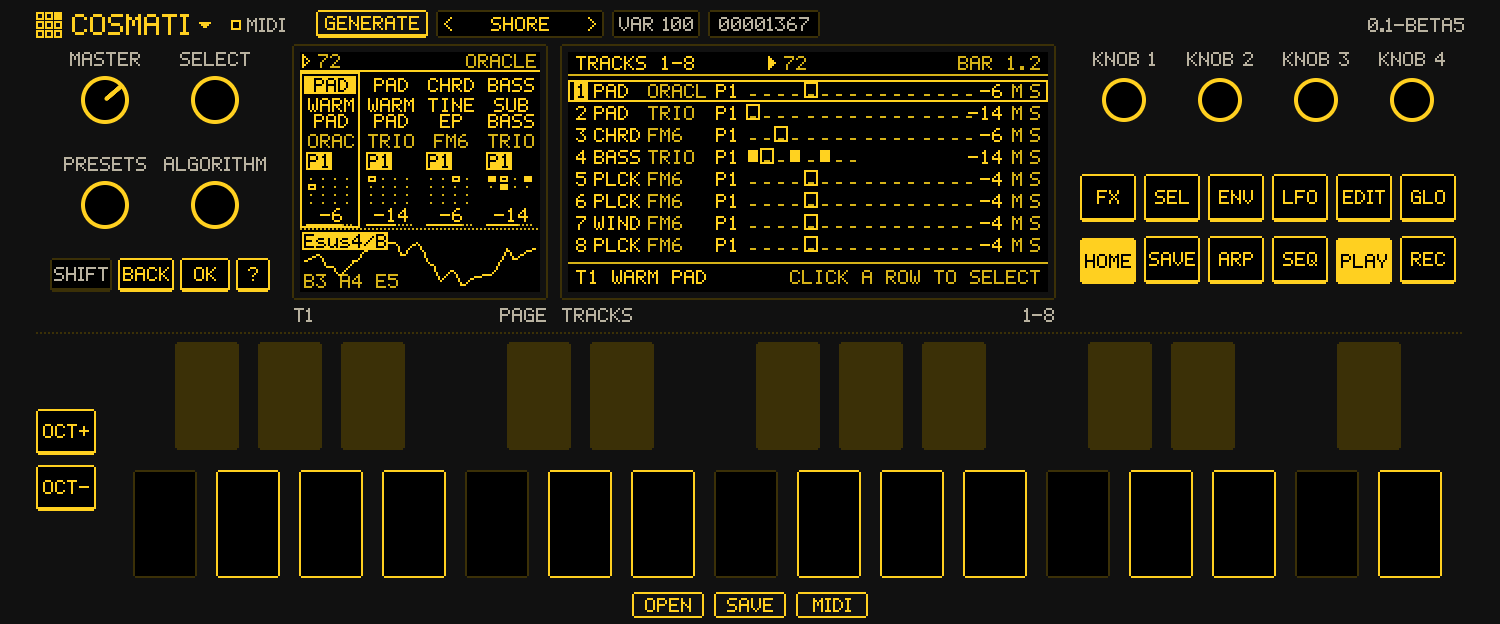
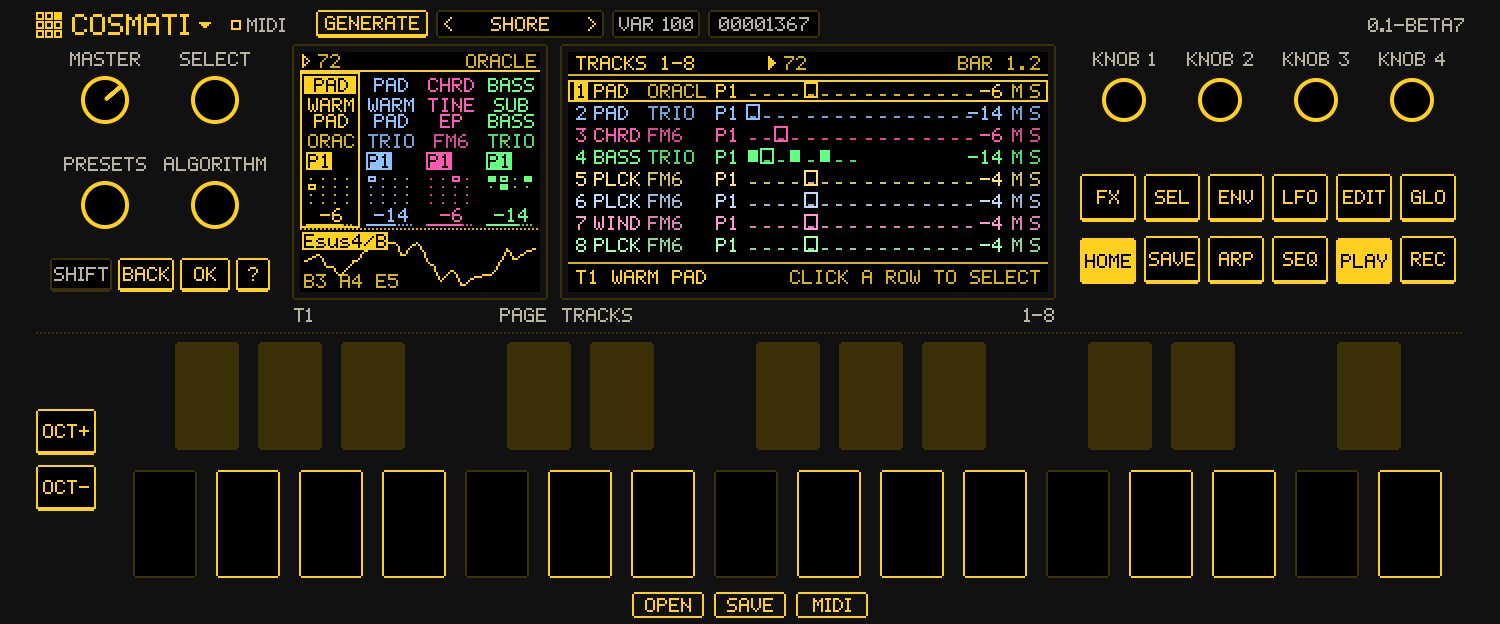
site: the plugin page on plugin-v0.1-beta7 (its downloads, its PLUGIN.md, its picture)

diff --git a/docs/plugin/index.html b/docs/plugin/index.html
@@ -156,10 +156,10 @@ in a DAW.</p>
 <p>Until beta 4 the plugin was called Tessera, like the firmware; Audio Damage makes a plugin called Tessera, so the plugin
 has a name of its own. Songs saved with the old name open in Cosmati (delete the old Tessera.clap, .vst3, .component and
 app when you install it, so your DAW doesn't list it twice).</p>
-<p><a href="../media/plugin/plugin-expanded.png?v=0.1-beta5"><img src="../media/plugin/plugin-expanded.png?v=0.1-beta5" alt="Cosmati in EXPANDED: the FM-1's screen with TRACKS beside it, all eight tracks playing STILL TIDE" /></a></p>
+<p><a href="../media/plugin/plugin-expanded.png?v=0.1-beta7"><img src="../media/plugin/plugin-expanded.png?v=0.1-beta7" alt="Cosmati in EXPANDED: the FM-1's screen with TRACKS beside it, all eight tracks playing STILL TIDE" /></a></p>
 <p><em>EXPANDED: the FM-1's screen and, beside it, TRACKS with all eight tracks (the latest beta, playing STILL TIDE).</em></p>
 <h2 id="download">Download</h2>
-<div class="downloads"><ul><li><b>Windows</b><span>CLAP, VST3 and the standalone app</span><a class="get" href="https://github.com/Rastapopolix/tessera/releases/download/plugin-v0.1-beta5/Cosmati-0.1-beta5-windows.zip" download>DOWNLOAD</a></li><li><b>macOS</b><span>CLAP, VST3, Audio Unit and the standalone app</span><a class="get" href="https://github.com/Rastapopolix/tessera/releases/download/plugin-v0.1-beta5/Cosmati-0.1-beta5-macos.zip" download>DOWNLOAD</a></li><li><b>Linux</b><span>CLAP and VST3</span><a class="get" href="https://github.com/Rastapopolix/tessera/releases/download/plugin-v0.1-beta5/Cosmati-0.1-beta5-linux.tar.gz" download>DOWNLOAD</a></li></ul><p><b>0.1-beta5, public beta:</b> it still has some rough edges, so please <a href="https://github.com/Rastapopolix/tessera/issues">report what you find</a>. Its notes and every version are under the <a href="https://github.com/Rastapopolix/tessera/releases">releases</a> (marked <i>Pre-release</i>). Free and open source, GPL-3.0. How to install: see <a href="#install">Install</a>.</p></div>
+<div class="downloads"><ul><li><b>Windows</b><span>CLAP, VST3 and the standalone app</span><a class="get" href="https://github.com/Rastapopolix/tessera/releases/download/plugin-v0.1-beta7/Cosmati-0.1-beta7-windows.zip" download>DOWNLOAD</a></li><li><b>macOS</b><span>CLAP, VST3, Audio Unit and the standalone app</span><a class="get" href="https://github.com/Rastapopolix/tessera/releases/download/plugin-v0.1-beta7/Cosmati-0.1-beta7-macos.zip" download>DOWNLOAD</a></li><li><b>Linux</b><span>CLAP and VST3</span><a class="get" href="https://github.com/Rastapopolix/tessera/releases/download/plugin-v0.1-beta7/Cosmati-0.1-beta7-linux.tar.gz" download>DOWNLOAD</a></li></ul><p><b>0.1-beta7, public beta:</b> it still has some rough edges, so please <a href="https://github.com/Rastapopolix/tessera/issues">report what you find</a>. Its notes and every version are under the <a href="https://github.com/Rastapopolix/tessera/releases">releases</a> (marked <i>Pre-release</i>). Free and open source, GPL-3.0. How to install: see <a href="#install">Install</a>.</p></div>
 <ul>
 <li><a href="#install">Install</a></li>
 <li><a href="#first-sound">First sound</a></li>
@@ -235,9 +235,8 @@ ROUT starts at SEL in the plugin). To play each track from its own DAW track ins
 the FM-1 (the <a href="../manual/">manual</a> shows how).</p>
 <p><strong>To hear what it can do,</strong> load a demo: all eight demos are in the DAW's list of Cosmati's presets (the preset
 browser for the CLAP plugin, as in Bitwig; the programs or factory presets menu for the VST3 and the Audio Unit, as in
-Reaper, Cubase or Logic); <strong>STILL TIDE</strong> also waits in slot A and <strong>KOTO GARDEN</strong> in slot B (SAVE &gt; PROJECT, then
-LOAD); and every demo is a <code>.tsp</code> file in the <a href="https://github.com/Rastapopolix/tessera/blob/HEAD/demos/">demos folder</a> for <strong>OPEN</strong>. The <strong>standalone app</strong> has no DAW
-to send it notes, so it opens with STILL TIDE loaded and plays it at once.</p>
+Reaper, Cubase or Logic); and every demo is a <code>.tsp</code> file in the <a href="https://github.com/Rastapopolix/tessera/blob/HEAD/demos/">demos folder</a> for <strong>OPEN</strong>, which is how
+the <strong>standalone app</strong> loads one. The project slots (SAVE &gt; PROJECT) start empty, for your own songs.</p>
 <h2 id="the-window">The window</h2>
 <p>The window shows the FM-1's panel, 1:1, in Tessera's own look or one of the FM-1's colours (see <strong>Shells</strong> below).
 Click the buttons and keys (drag across the keys to glide). Drag a knob up and down or left and right, or turn the
@@ -256,26 +255,35 @@ the slot's sheet.</li>
 <li><strong>PATTERNS:</strong> click a cell to queue that pattern on its track; click a track's number to select it. In Copy to,
 click where the copy goes.</li>
 <li><strong>SONG:</strong> click a section's letter to pick it; click a block to pick its section and its track.</li>
-<li><strong>MIXER:</strong> drag or turn the wheel on a strip's level or pan (double-click: its default, centre); click the left
-half of its MUTE / SOLO box to mute, the right half to solo.</li>
+<li><strong>MIXER:</strong> drag or turn the wheel on a strip's level or pan (double-click: its default, centre); click the word
+under a strip to mute it, double-click it to solo.</li>
+<li><strong>The tempo</strong> in a screen's header (HOME, MIXER, the lists): drag it or turn the wheel over it, a BPM a step;
+double-click for 120. While a DAW plays Cosmati, the DAW sets the tempo.</li>
+<li><strong>The footer's page tabs and its arrows:</strong> click a tab for that page, an arrow for the page just past it.</li>
 <li><strong>ABOUT and a HELP card longer than the card:</strong> the wheel scrolls the text (drag it as you would push a page).</li>
 <li><strong>OK, BACK, YES and NO</strong> on the screen: click them.</li>
 <li><strong>The sound browser and SCALES:</strong> the wheel over the left side turns KNOB 1 (the list, the scale family), over the
 right side KNOB 2 (the sound, the scale).</li>
 <li><strong>HOME:</strong> click a track's column to select it.</li>
+<li><strong>TRACKS</strong> (EXPANDED): click a row to select that track; double-click it to open its EDIT page.</li>
 </ul>
+<p><strong>Click away to close:</strong> with a list, a sheet or a help card open over the page, click anywhere with nothing to
+use (the panel's body, the screen beside it) to close it, as BACK would. A YES / NO question waits for its answer.</p>
 <p>The panel's own knobs and buttons still do everything they did. The mouse on the screen only turns those knobs and
 presses those keys for you, so a page behaves the same either way.</p>
 <p><strong>The computer keyboard</strong> plays it too, as in the web simulator (click the window first):</p>
 <ul>
 <li><strong>Z</strong> to <strong>'</strong> and <strong>Q</strong> to <strong>O</strong>: the keys.</li>
 <li><strong>1</strong> to <strong>=</strong>: the twelve buttons, in the panel's order.</li>
-<li><strong>[</strong> and <strong>]</strong>: the FM-1's OCT- and OCT+ (in Tessera's look, BACK and OK).</li>
+<li><strong>[</strong> and <strong>]</strong>, or <strong>Esc</strong> and <strong>Enter</strong>: the FM-1's OCT- and OCT+ (in Tessera's look, BACK and OK).</li>
+<li><strong>Space</strong> (the standalone app): PLAY / STOP. <strong>Ctrl+O</strong> and <strong>Ctrl+S</strong> (<strong>Cmd</strong> on a Mac): OPEN and SAVE. In a
+DAW these stay the DAW's.</li>
 <li><strong>Shift</strong> (Tessera's look): SHIFT, held while you hold the key (a click on SHIFT latches it instead).</li>
 <li><strong>Page Up / Page Down</strong> (Tessera's look): OCT+ and OCT-.</li>
 <li><strong>F1</strong> (Tessera's look): <strong>?</strong>, the help card of the knob or row under the cursor.</li>
 <li><strong>Up / Down</strong>: turn SELECT. <strong>Left / Right</strong>: turn ALGORITHM.</li>
 </ul>
+<p>Hover over a button for the key that does the same.</p>
 <p><strong>Key labels:</strong> where a page gives the keys a job of their own, each key shows it in a tiny label just over it, and
 hovering over the key says it in full: MIXER, PERF, LANDSCAPE and GLO held (M1..M4 mute on the black keys, S1..S4 solo
 while held on the white, then ALL, HOLD, FILL, TAP), SEL held (the key sets the ROOT), SEQ held (PATTERN 1..8), the
@@ -297,7 +305,8 @@ as held, while you click the second one, so GLO + a button or SEL + a key work w
 click it, or press <strong>Esc</strong> to let go.</p>
 <p><strong>Shells:</strong> the window opens in Tessera's own look. Click the Tessera mark at the top left for its menu:</p>
 <ul>
-<li><strong>SHELL:</strong> Tessera's look, or one of the eight FM-1 colours. Each shell sets its own screen ink.</li>
+<li><strong>SHELL:</strong> Tessera's look, or one of the eight FM-1 colours. Each shell sets its own screen ink: Tessera's look
+starts in MOSAIC, a colour for each track (track 1 yellow, 2 blue, 3 pink, 4 green; 5-8 lighter).</li>
 <li><strong>INK:</strong> the screen's ink, the same 13 choices as MENU &gt; COLOR (nine inks, then MOSAIC, SUNSET, OCEAN and NEON,
 which colour each track). Hover over a swatch to see its name.</li>
 <li><strong>MODE:</strong> FM-1 (the FM-1's panel) or EXPANDED (a wider window with every track on screen at once: see

diff --git a/PLUGIN.md b/PLUGIN.md
@@ -84,9 +84,8 @@ the FM-1 (the [manual](MANUAL.md) shows how).
 
 **To hear what it can do,** load a demo: all eight demos are in the DAW's list of Cosmati's presets (the preset
 browser for the CLAP plugin, as in Bitwig; the programs or factory presets menu for the VST3 and the Audio Unit, as in
-Reaper, Cubase or Logic); **STILL TIDE** also waits in slot A and **KOTO GARDEN** in slot B (SAVE > PROJECT, then
-LOAD); and every demo is a `.tsp` file in the [demos folder](demos/) for **OPEN**. The **standalone app** has no DAW
-to send it notes, so it opens with STILL TIDE loaded and plays it at once.
+Reaper, Cubase or Logic); and every demo is a `.tsp` file in the [demos folder](demos/) for **OPEN**, which is how
+the **standalone app** loads one. The project slots (SAVE > PROJECT) start empty, for your own songs.
 
 ## The window
 
@@ -108,13 +107,20 @@ and value shown large in a box under the screen:
 - **PATTERNS:** click a cell to queue that pattern on its track; click a track's number to select it. In Copy to,
   click where the copy goes.
 - **SONG:** click a section's letter to pick it; click a block to pick its section and its track.
-- **MIXER:** drag or turn the wheel on a strip's level or pan (double-click: its default, centre); click the left
-  half of its MUTE / SOLO box to mute, the right half to solo.
+- **MIXER:** drag or turn the wheel on a strip's level or pan (double-click: its default, centre); click the word
+  under a strip to mute it, double-click it to solo.
+- **The tempo** in a screen's header (HOME, MIXER, the lists): drag it or turn the wheel over it, a BPM a step;
+  double-click for 120. While a DAW plays Cosmati, the DAW sets the tempo.
+- **The footer's page tabs and its arrows:** click a tab for that page, an arrow for the page just past it.
 - **ABOUT and a HELP card longer than the card:** the wheel scrolls the text (drag it as you would push a page).
 - **OK, BACK, YES and NO** on the screen: click them.
 - **The sound browser and SCALES:** the wheel over the left side turns KNOB 1 (the list, the scale family), over the
   right side KNOB 2 (the sound, the scale).
 - **HOME:** click a track's column to select it.
+- **TRACKS** (EXPANDED): click a row to select that track; double-click it to open its EDIT page.
+
+**Click away to close:** with a list, a sheet or a help card open over the page, click anywhere with nothing to
+use (the panel's body, the screen beside it) to close it, as BACK would. A YES / NO question waits for its answer.
 
 The panel's own knobs and buttons still do everything they did. The mouse on the screen only turns those knobs and
 presses those keys for you, so a page behaves the same either way.
@@ -123,11 +129,15 @@ presses those keys for you, so a page behaves the same either way.
 
 - **Z** to **'** and **Q** to **O**: the keys.
 - **1** to **=**: the twelve buttons, in the panel's order.
-- **[** and **]**: the FM-1's OCT- and OCT+ (in Tessera's look, BACK and OK).
+- **[** and **]**, or **Esc** and **Enter**: the FM-1's OCT- and OCT+ (in Tessera's look, BACK and OK).
+- **Space** (the standalone app): PLAY / STOP. **Ctrl+O** and **Ctrl+S** (**Cmd** on a Mac): OPEN and SAVE. In a
+  DAW these stay the DAW's.
 - **Shift** (Tessera's look): SHIFT, held while you hold the key (a click on SHIFT latches it instead).
 - **Page Up / Page Down** (Tessera's look): OCT+ and OCT-.
 - **F1** (Tessera's look): **?**, the help card of the knob or row under the cursor.
 - **Up / Down**: turn SELECT. **Left / Right**: turn ALGORITHM.
+
+Hover over a button for the key that does the same.
 
 **Key labels:** where a page gives the keys a job of their own, each key shows it in a tiny label just over it, and
 hovering over the key says it in full: MIXER, PERF, LANDSCAPE and GLO held (M1..M4 mute on the black keys, S1..S4 solo
@@ -155,7 +165,8 @@ click it, or press **Esc** to let go.
 
 **Shells:** the window opens in Tessera's own look. Click the Tessera mark at the top left for its menu:
 
-- **SHELL:** Tessera's look, or one of the eight FM-1 colours. Each shell sets its own screen ink.
+- **SHELL:** Tessera's look, or one of the eight FM-1 colours. Each shell sets its own screen ink: Tessera's look
+  starts in MOSAIC, a colour for each track (track 1 yellow, 2 blue, 3 pink, 4 green; 5-8 lighter).
 - **INK:** the screen's ink, the same 13 choices as MENU > COLOR (nine inks, then MOSAIC, SUNSET, OCEAN and NEON,
   which colour each track). Hover over a swatch to see its name.
 - **MODE:** FM-1 (the FM-1's panel) or EXPANDED (a wider window with every track on screen at once: see
